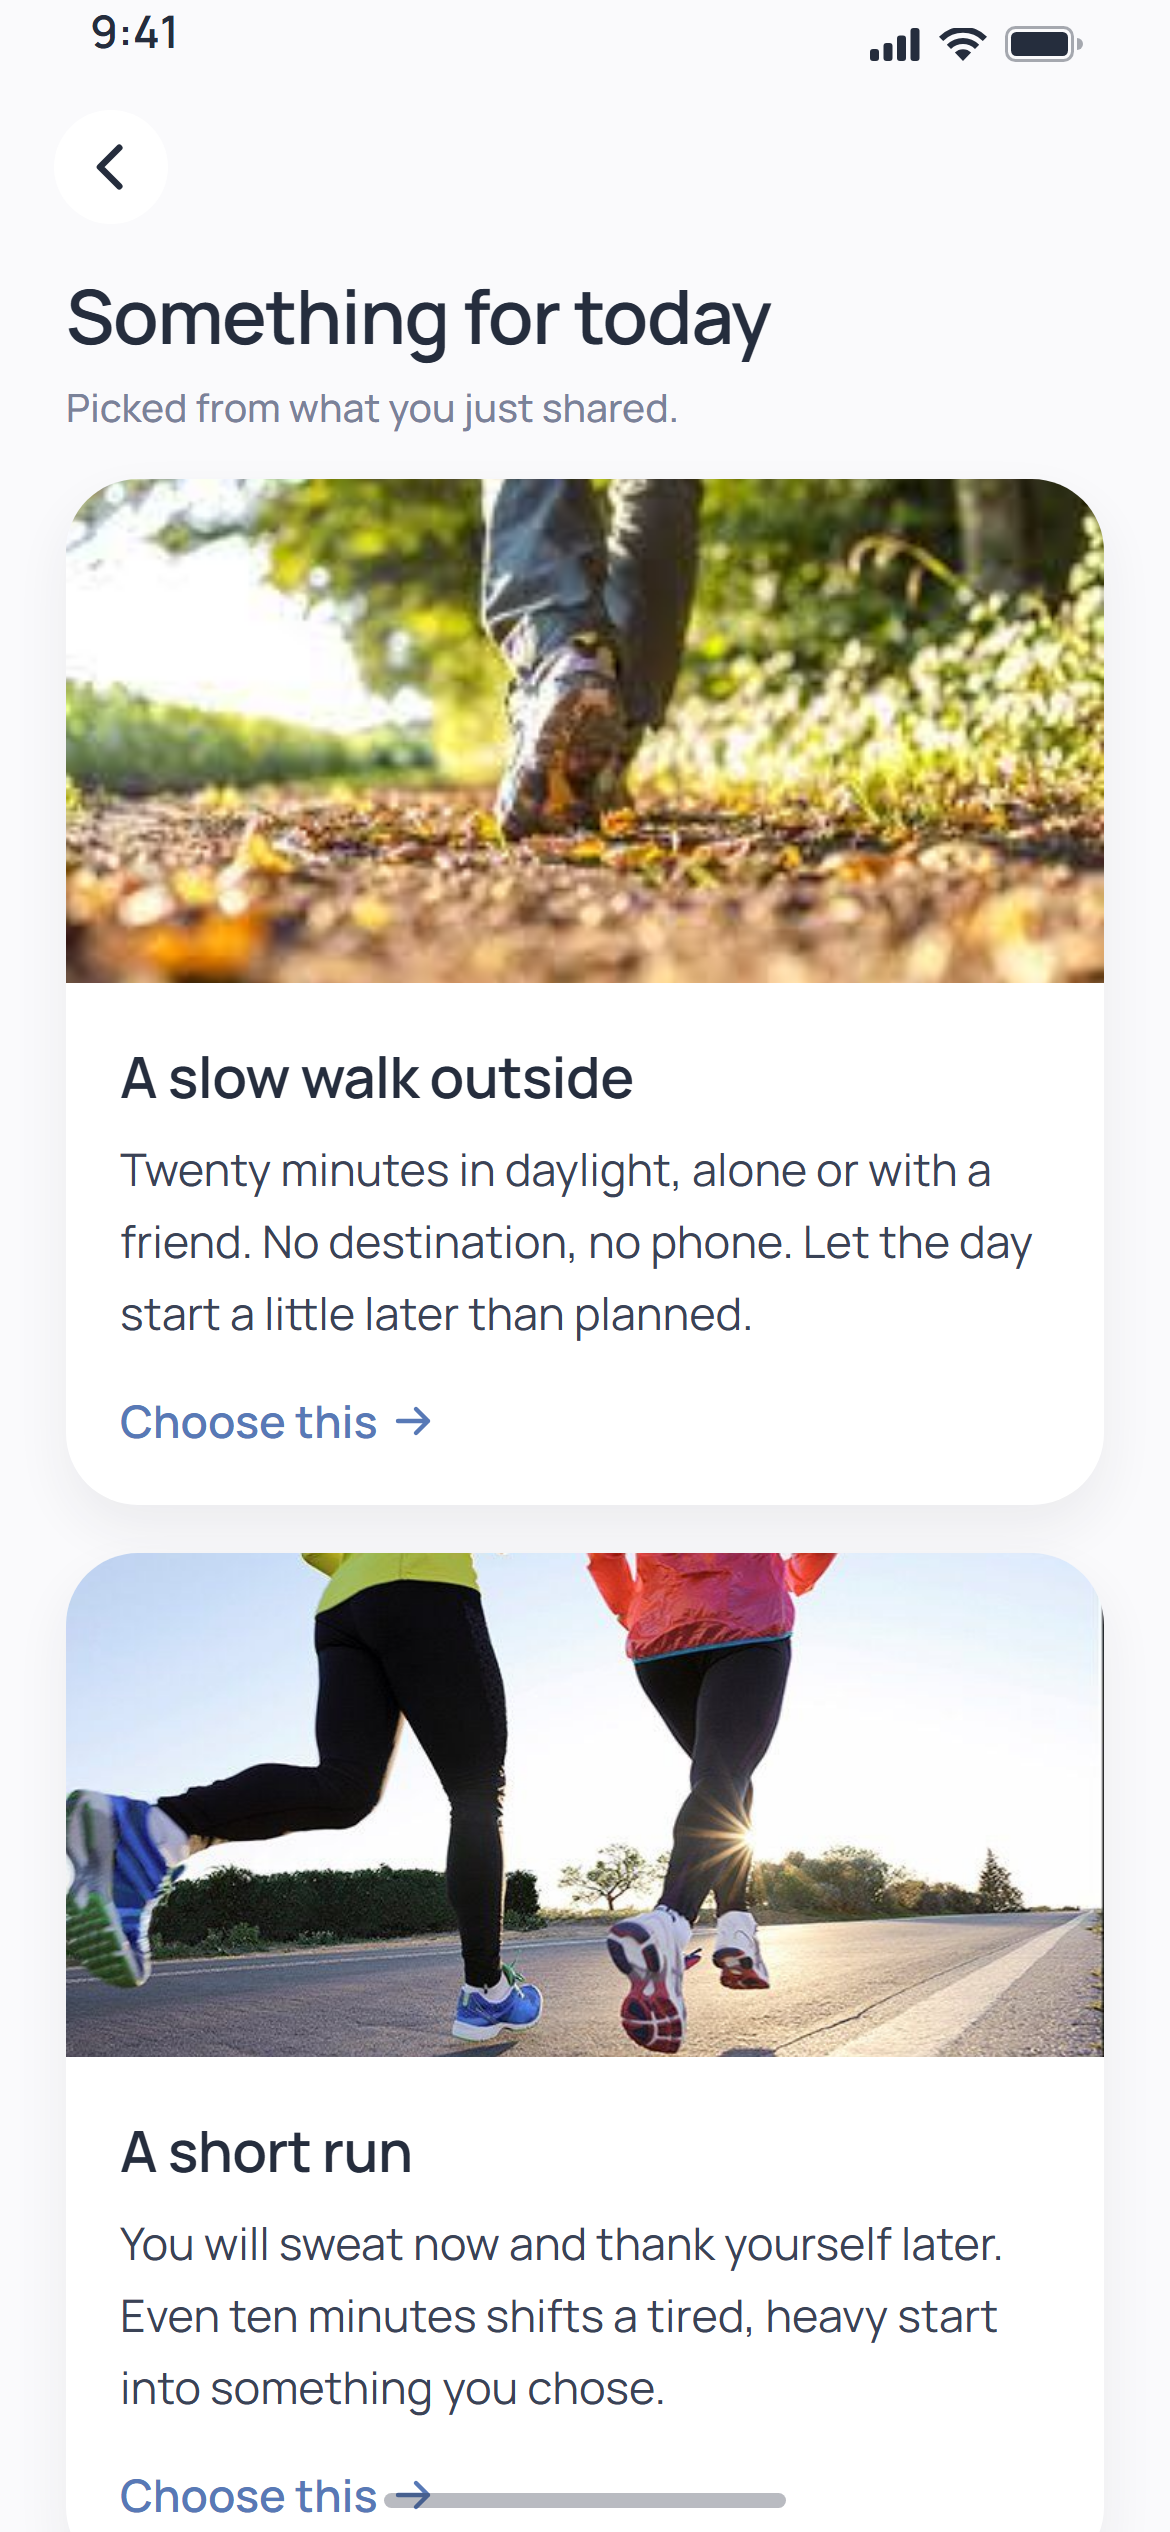
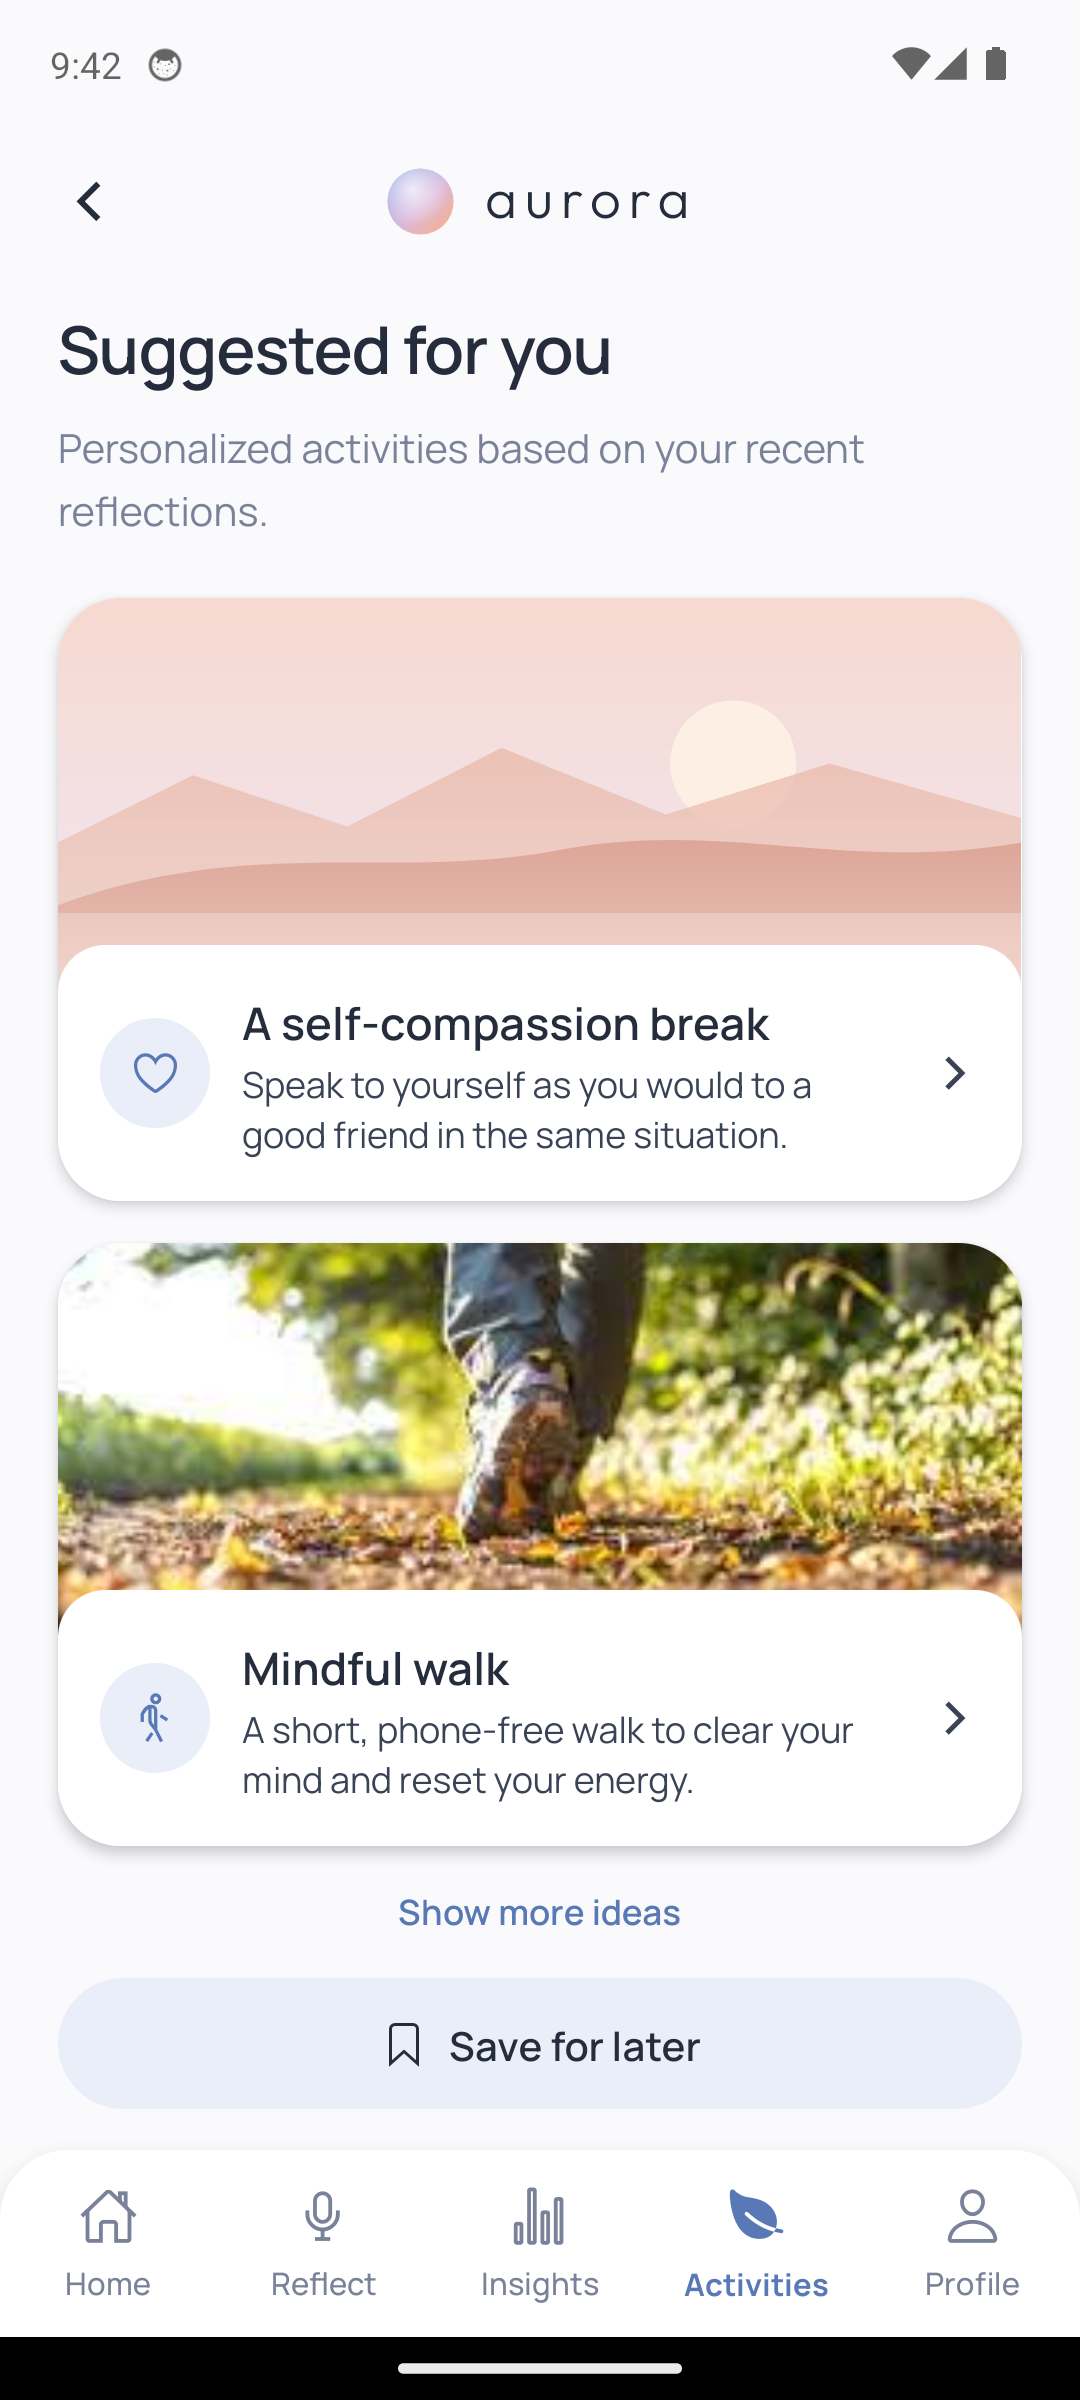
Aurora page: use emulator captures of the rebuilt app
Replace the design renders with six Android captures of the current
build (home, reflect, guided reflection, insights, activities,
settings) and note the 2026 self-hostable backend in the architecture
section.

diff --git a/content/projects/posts/Aurora.md b/content/projects/posts/Aurora.md
@@ -39,7 +39,7 @@ cover:
 .aur-hero-shot{display:block;width:100%;margin:1.8rem auto 0;border-radius:18px;}
 .aur-hero-cap{font-size:.78rem;font-weight:500;color:var(--aur-sub);margin:.7rem 0 0;}
 /* screens gallery */
-.aur-shots{display:grid;grid-template-columns:repeat(4,1fr);gap:.9rem;margin:1.4rem 0 1.8rem;}
+.aur-shots{display:grid;grid-template-columns:repeat(3,1fr);gap:.9rem;margin:1.4rem 0 1.8rem;}
 .aur-shots figure{margin:0;text-align:center;}
 .aur-shots img{width:100%;height:auto;border-radius:18px;border:1px solid var(--aur-line);box-shadow:0 10px 24px rgba(37,45,61,.08);}
 .aur-shots figcaption{font-size:.78rem;font-weight:500;color:var(--aur-sub);margin-top:.5rem;line-height:1.35;}
@@ -99,13 +99,15 @@ The research question behind it: can a general-purpose large language model, wit
 
 ## The experience
 
-Three screens, one gesture. You hold the Aurora sphere and talk; you let go and read back what Aurora heard; you tap *Analyse* and see something to do today and how you are doing. Every tap that was not strictly needed was removed, because the app has to be pleasant to use every single day. These are the screens of the current build.
+One gesture a day. You tap the Aurora sphere and talk; Aurora writes it down, asks a couple of follow-up questions if you want them, and turns the reflection into eight scores with written reasons. Insights show the eight dimensions and the weekly trend, and activities are ranked by the dimensions that need the most care. Every tap that was not strictly needed was removed, because the app has to be pleasant to use every single day. These are screens of the current build, captured on an Android emulator.
 
 <div class="aur-shots">
-<figure><img src="/projects/Aurora/listening.png" alt="Home screen while recording: the sphere swells and glows peach" loading="lazy"><figcaption>Hold the sphere and speak</figcaption></figure>
-<figure><img src="/projects/Aurora/home.png" alt="Home screen with one transcribed reflection and Listen and Analyse actions" loading="lazy"><figcaption>Read it back, then analyse</figcaption></figure>
-<figure><img src="/projects/Aurora/activities.png" alt="Activities screen with two suggestions" loading="lazy"><figcaption>Something for today</figcaption></figure>
-<figure><img src="/projects/Aurora/parameters.png" alt="Parameters screen with the eight well-being scores" loading="lazy"><figcaption>Today's well-being</figcaption></figure>
+<figure><img src="/projects/Aurora/home.png" alt="Home screen: the Aurora sphere rising over soft hills and a Start daily reflection button" loading="lazy"><figcaption>Home: start today's reflection</figcaption></figure>
+<figure><img src="/projects/Aurora/reflect.png" alt="Reflect screen while recording, with the glowing sphere, a live waveform and a timer" loading="lazy"><figcaption>Reflect: speak, with a live waveform</figcaption></figure>
+<figure><img src="/projects/Aurora/guided.png" alt="Guided reflection chat with follow-up questions" loading="lazy"><figcaption>Guided reflection: a few follow-up questions</figcaption></figure>
+<figure><img src="/projects/Aurora/insights.png" alt="Insights screen with a radar of the eight dimensions and a weekly well-being trend" loading="lazy"><figcaption>Insights: eight dimensions and the weekly trend</figcaption></figure>
+<figure><img src="/projects/Aurora/activities.png" alt="Activities screen with suggestions ranked by what needs care" loading="lazy"><figcaption>Activities: suggestions ranked by what needs care</figcaption></figure>
+<figure><img src="/projects/Aurora/settings.png" alt="Profile and connection settings: sample data, your own keys, or your own AWS backend" loading="lazy"><figcaption>Profile: choose where your data goes</figcaption></figure>
 </div>
 
 ### Eight dimensions, one vocabulary
@@ -225,6 +227,8 @@ A few details of the interaction that came out of using it daily:
 ## How it works
 
 Aurora is a thin client in front of a serverless backend. There is no server to maintain: the phone talks to one third-party API for speech-to-text and to AWS for everything else. All prompting lives in a single Python Lambda, so the client never contains model logic and the model can be swapped without shipping a new app build.
+
+This section describes the system as it was built for the study. The 2026 rebuild keeps the same shape but is self-hostable: a small AWS SAM stack (HTTP API with a token authorizer, Bedrock, Transcribe, a private bucket with one-day expiry and no stored content), three connection modes (sample data, your own OpenAI-compatible keys, or your own AWS backend), and secrets kept in the device keystore rather than in the app bundle.
 
 <figure class="aur-fig">
 <svg viewBox="0 0 680 470" role="img" aria-label="Architecture diagram with three zones. On the phone: Recorder, Home screen and the Activities and Parameters screens. Third-party API: OpenAI Whisper receives m4a audio and returns a transcript. AWS serverless: the Home screen invokes the analysis Lambda, which calls a Llama 70B chat model on Bedrock and returns eight scores; an optional S3 upload of audio and transcript and a planned chat Lambda are drawn dashed.">
